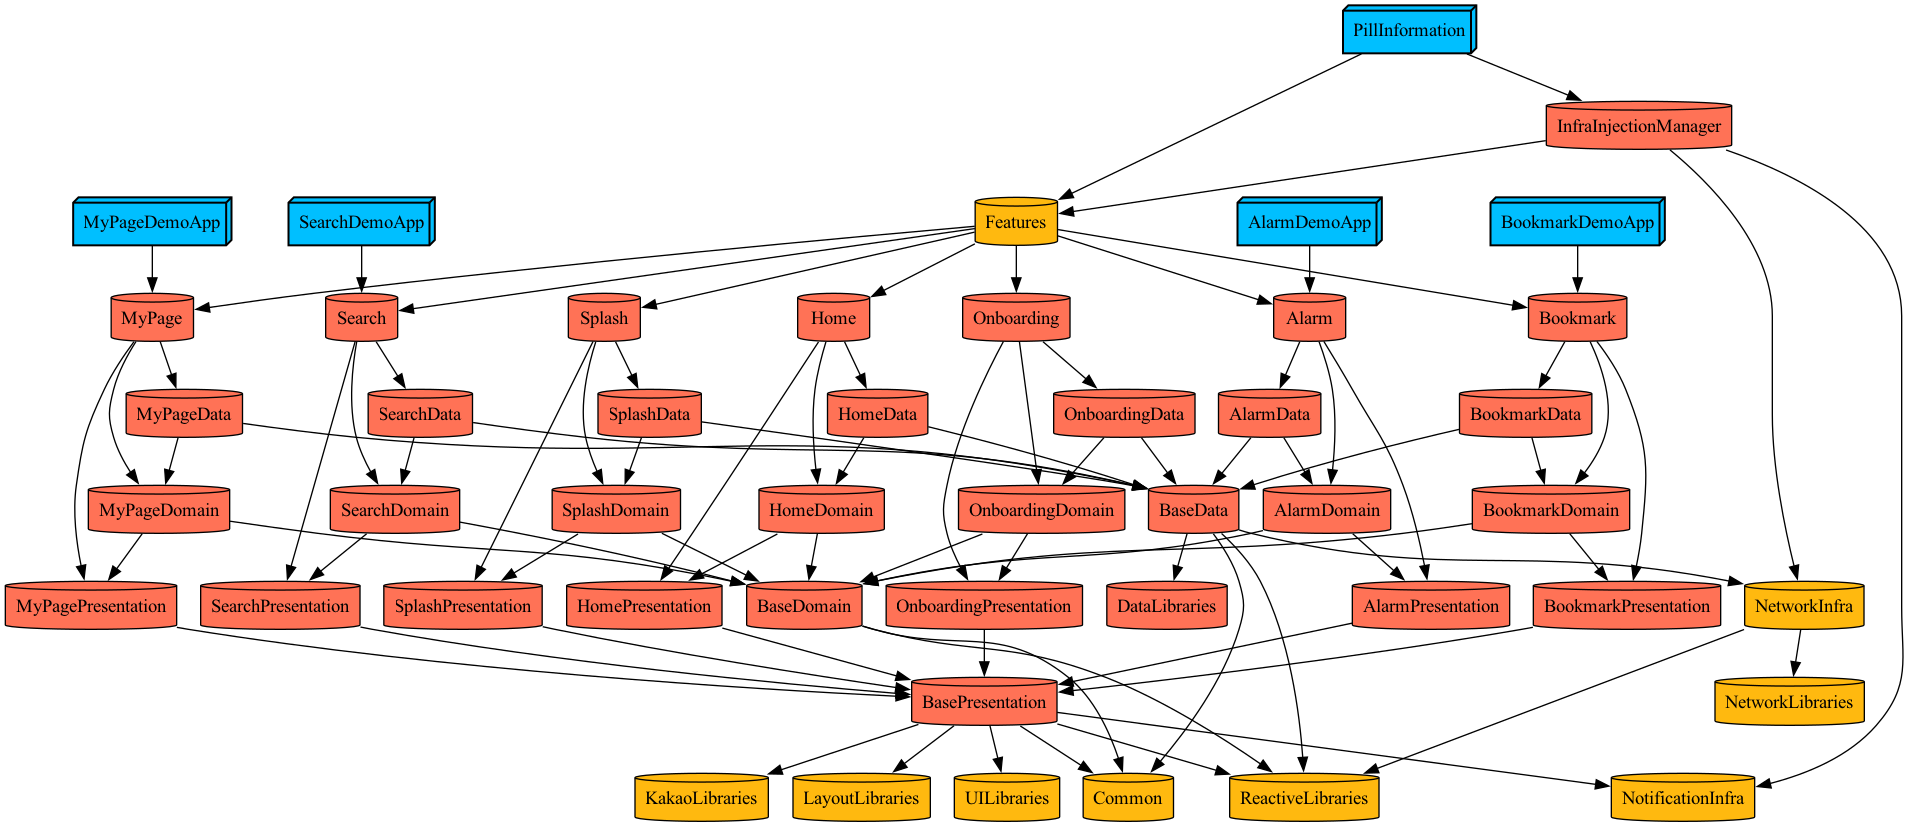
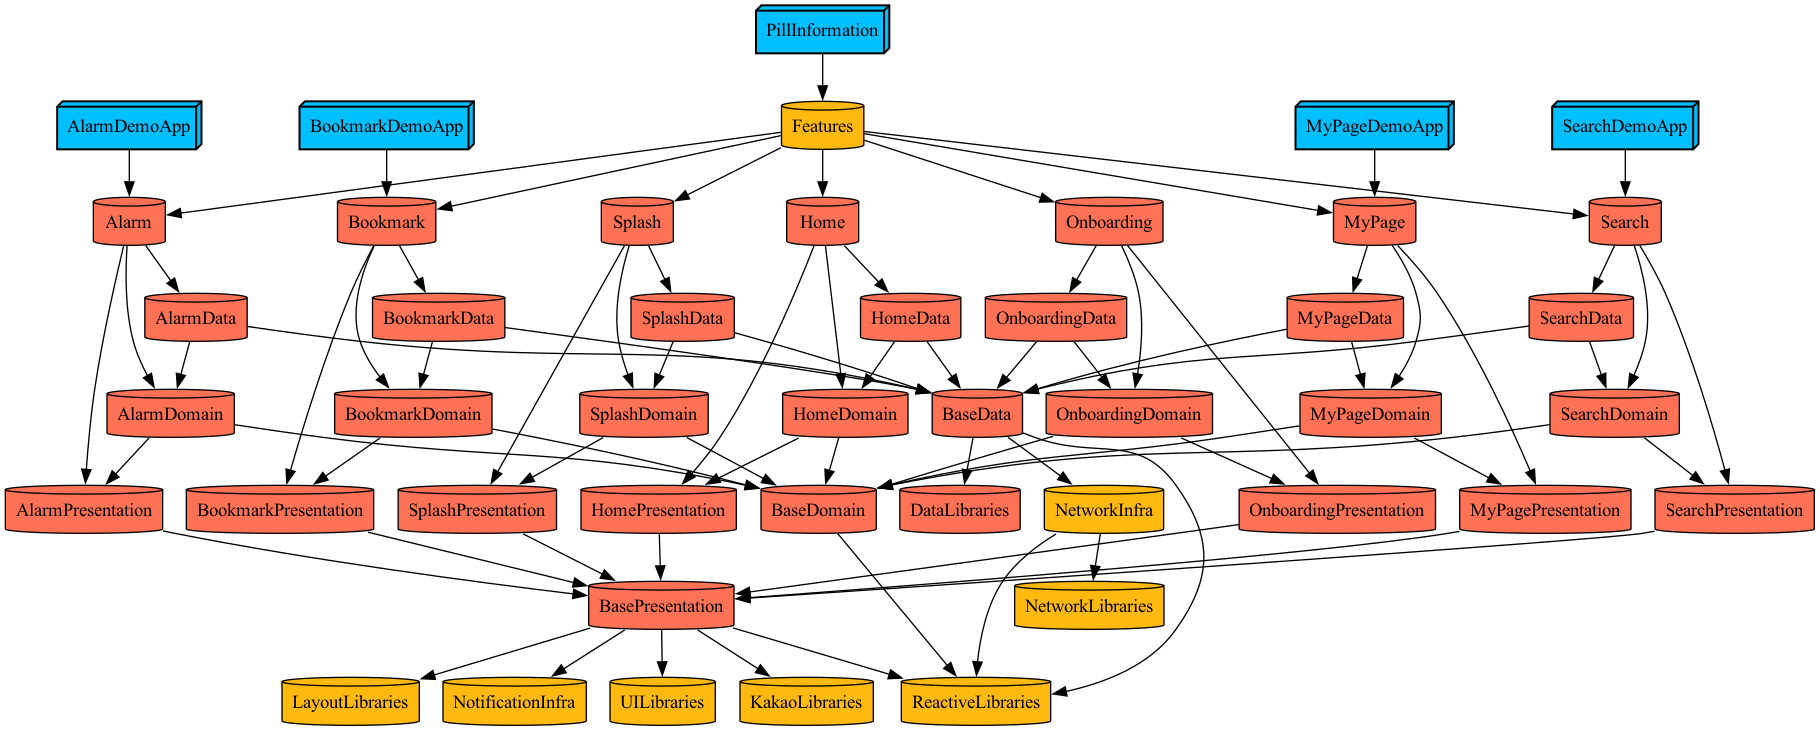
🎨 Delete Common project

diff --git a/Projects/Presentation/HomePresentation/Sources/Constants/Constants+String.swift b/Projects/Presentation/HomePresentation/Sources/Constants/Constants+String.swift
@@ -12,8 +12,8 @@ import BasePresentation
 
 extension Constants.Home {
     static let home: String = "home".localized
-    static let searchPillByShape: String = "searchPillByShape".localized
-    static let searchPillByPhoto: String = "searchPillByPhoto".localized
+    static let searchPillByNameShort: String = "searchPillByNameShort".localized
+    static let searchPillByShapeShort: String = "searchPillByShapeShort".localized
     static let notice: String = "notice".localized
     static let recommendPills: String = "recommendPills".localized
     static let otherNotice: String = "otherNotice".localized

diff --git a/Tuist/ProjectDescriptionHelpers/Dependencies/Dependency+Project.swift b/Tuist/ProjectDescriptionHelpers/Dependencies/Dependency+Project.swift
@@ -31,11 +31,6 @@ extension TargetDependency {
     }
 }
 
-// MARK: - Project
-public extension TargetDependency.Project {
-    static let Common: TargetDependency = .project(target: "Common", path: .relativeToProject(name: "Common"))
-}
-
 // MARK: - Feature
 public extension TargetDependency.Project.Feature {
     static let Features: TargetDependency = .project(layer: .Feature, name: "Features")

diff --git a/Projects/Presentation/HomePresentation/Sources/HomeRecommend/Reactor/HomeRecommendReactor.swift b/Projects/Presentation/HomePresentation/Sources/HomeRecommend/Reactor/HomeRecommendReactor.swift
@@ -51,8 +51,8 @@ public enum HomeShortcutButtonInfo: Int, CaseIterable {
     
     var title: String {
         switch self {
-        case .name: return Constants.Home.searchPillByName
-        case .shape: return Constants.Home.searchPillByShape
+        case .name: return Constants.Home.searchPillByNameShort
+        case .shape: return Constants.Home.searchPillByShapeShort
         }
     }
 }

diff --git a/Projects/Data/BaseData/Project.swift b/Projects/Data/BaseData/Project.swift
@@ -14,7 +14,6 @@ let project: Project = .project(
     dependencies: [
         .Project.LibraryManager.ReactiveLibraries,
         .Project.LibraryManager.DataLibraries,
-        .Project.Infrastructure.Network,
-        .Project.Common
+        .Project.Infrastructure.Network
     ]
 )

diff --git a/Projects/Infrastructure/NetworkInfra/Sources/Logger.swift b/Projects/Infrastructure/NetworkInfra/Sources/Logger.swift
@@ -1,8 +1,8 @@
 //
-//  Foundation+.swift
-//  Common
+//  Logger.swift
+//  NetworkInfra
 //
-//  Created by JunHyeok Lee on 2/16/24.
+//  Created by JunHyoek Lee on 8/20/24.
 //  Copyright © 2024 com.junhyeok.PillInformation. All rights reserved.
 //
 

diff --git a/Projects/Presentation/BasePresentation/Project.swift b/Projects/Presentation/BasePresentation/Project.swift
@@ -17,6 +17,5 @@ let project: Project = .project(
         .Project.LibraryManager.LayoutLibraries,
         .Project.LibraryManager.UILibraries,
         .Project.Infrastructure.Notification,
-        .Project.Common
     ]
 )

diff --git a/Projects/Domain/BaseDomain/Project.swift b/Projects/Domain/BaseDomain/Project.swift
@@ -13,6 +13,5 @@ let project: Project = .project(
     product: .staticFramework,
     dependencies: [
         .Project.LibraryManager.ReactiveLibraries,
-        .Project.Common
     ]
 )
